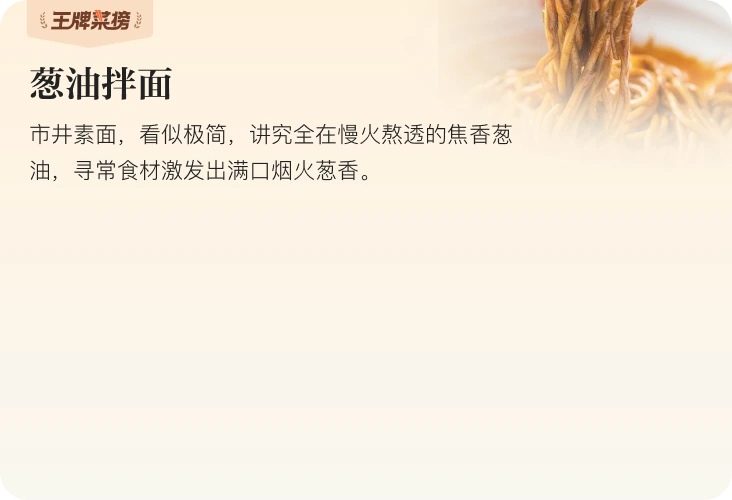
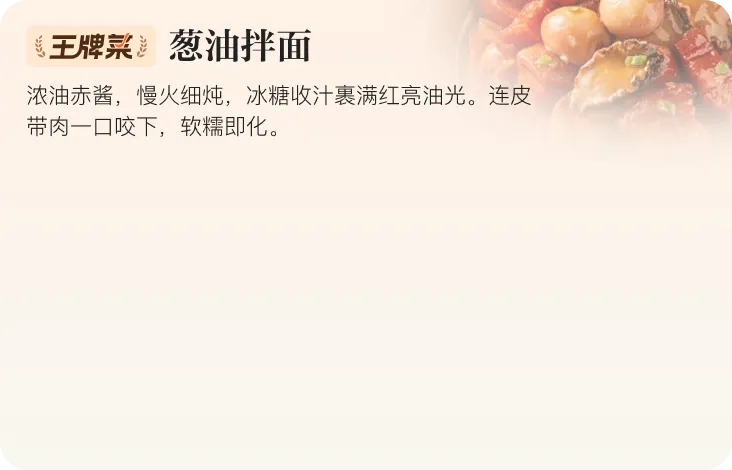
feat: 替换菜卡头图为新版菜品图并调整商户卡位置
- 红烧肉/白斩鸡/小笼包/炸猪排/葱油拌面 5 张头图更新为新素材（732x470）
- 三段式 split 头图结构简化为单张 background-image
- padding-top 68.3% -> 64.2% 匹配新图宽高比
- 商户卡 overlap -39.49vw -> -34vw 保持卡片紧凑

Changed region(s): [[0.0301, 0.0, 1.0, 0.3574]]

diff --git a/index.html b/index.html
@@ -611,33 +611,7 @@ transition: opacity 0.18s ease-out;
 }
     .rank-card__header {
       width: 100%;
-      padding-top: 68.3%;
-      background-size: 100% 100%;
-      background-repeat: no-repeat;
-      background-position: center;
-    }
-    .rank-card__header--split {
-      position: relative;
-      background-image: none;
-    }
-    .rank-card__header--split .rank-card__header-inner {
-      position: absolute;
-      left: 0; top: 0;
-      width: 100%; height: 100%;
-      display: flex;
-      flex-direction: column;
-    }
-    .rank-card__header--split .rank-card__header-top,
-    .rank-card__header--split .rank-card__header-bottom {
-      display: block;
-      width: 100%;
-      height: auto;
-      flex-shrink: 0;
-    }
-    .rank-card__header--split .rank-card__header-mid {
-      flex: 1 1 auto;
-      width: 100%;
-      min-height: 0;
+      padding-top: 64.2%;
       background-size: 100% 100%;
       background-repeat: no-repeat;
       background-position: center;
@@ -652,7 +626,7 @@ transition: opacity 0.18s ease-out;
       -webkit-overflow-scrolling: touch;
       scrollbar-width: none;
       padding: 0 3.08vw 2.56vw;
-      margin-top: -39.49vw;
+      margin-top: -34vw;
     }
     .rank-card__shops::-webkit-scrollbar { display: none; }
     .shop-card {
@@ -1019,13 +993,7 @@ to { opacity: 1; }
       <div class="rank-list">
 
         <div class="rank-card" data-category="baizhanji">
-          <div class="rank-card__header rank-card__header--split">
-            <div class="rank-card__header-inner">
-              <img class="rank-card__header-top" src="assets/card-bg-baizhanji-top.webp" alt="">
-              <div class="rank-card__header-mid" style="background-image: url('assets/card-bg-baizhanji-mid.webp');"></div>
-              <img class="rank-card__header-bottom" src="assets/card-bg-baizhanji-bottom.webp" alt="">
-            </div>
-          </div>
+          <div class="rank-card__header" style="background-image: url('assets/card-bg-baizhanji.webp');"></div>
           <div class="rank-card__shops">
             <div class="shop-card"><img src="assets/shop-baizhanji-1.webp" alt="苏小柳点心·手"></div>
             <div class="shop-card"><img src="assets/shop-baizhanji-2.webp" alt="渔水之家柴火菜"></div>
@@ -1034,13 +1002,7 @@ to { opacity: 1; }
         </div>
 
         <div class="rank-card" data-category="xiaolongbao">
-          <div class="rank-card__header rank-card__header--split">
-            <div class="rank-card__header-inner">
-              <img class="rank-card__header-top" src="assets/card-bg-xiaolongbao-top.webp" alt="">
-              <div class="rank-card__header-mid" style="background-image: url('assets/card-bg-xiaolongbao-mid.webp');"></div>
-              <img class="rank-card__header-bottom" src="assets/card-bg-xiaolongbao-bottom.webp" alt="">
-            </div>
-          </div>
+          <div class="rank-card__header" style="background-image: url('assets/card-bg-xiaolongbao.webp');"></div>
           <div class="rank-card__shops">
             <div class="shop-card"><img src="assets/shop-xiaolongbao-1.webp" alt="屋有鲜"></div>
             <div class="shop-card"><img src="assets/shop-xiaolongbao-2.webp" alt="莱莱小笼·乔艾"></div>
@@ -1049,13 +1011,7 @@ to { opacity: 1; }
         </div>
 
         <div class="rank-card" data-category="hongsharou">
-          <div class="rank-card__header rank-card__header--split">
-            <div class="rank-card__header-inner">
-              <img class="rank-card__header-top" src="assets/card-bg-hongsharou-top.webp" alt="">
-              <div class="rank-card__header-mid" style="background-image: url('assets/card-bg-hongsharou-mid.webp');"></div>
-              <img class="rank-card__header-bottom" src="assets/card-bg-hongsharou-bottom.webp" alt="">
-            </div>
-          </div>
+          <div class="rank-card__header" style="background-image: url('assets/card-bg-hongsharou.webp');"></div>
           <div class="rank-card__shops">
             <div class="shop-card"><img src="assets/shop-hongsharou-1.webp" alt="逸道（益丰·外"></div>
             <div class="shop-card"><img src="assets/shop-hongsharou-2.webp" alt="人和馆·上海菜"></div>
